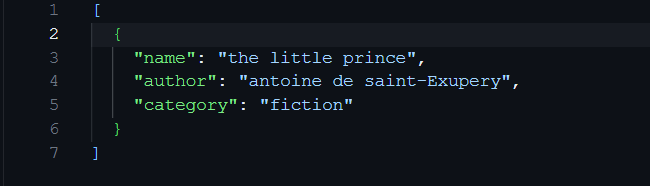
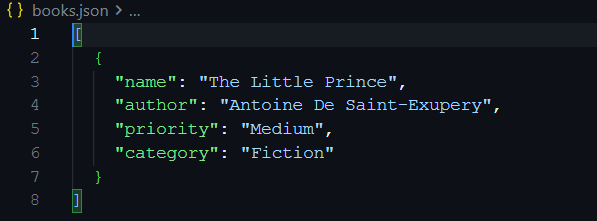
Add Priority feature

diff --git a/main.py b/main.py
@@ -20,6 +20,7 @@ elif adminMode.lower() == "n":
 
     print(f"Welcome {username}!")
 
+    PRIORITY = ["low", "medium", "high"]
     books = []
     bookshelf = Bookshelf(books)
     savedBooks = bookshelf.loadBooks()
@@ -31,6 +32,7 @@ elif adminMode.lower() == "n":
 
         bookName = input("Name: ")
         bookAuthor = input("Author: ")
+        bookPriority = input("Priority (Low / Medium / High): ")
         bookCategory = input("Category: ")
 
         print("\n==========================================\n")
@@ -41,11 +43,19 @@ elif adminMode.lower() == "n":
             print("Error! Please enter the author's name.\n")
         elif bookCategory.strip() == "":
             print("Error! Book Category can't be empty.\n")
+        elif not bookPriority in PRIORITY:
+            print("Error! An invalid priority.")
         else:
 
+            bookName = bookName.title()
+            bookAuthor = bookAuthor.title()
+            bookPriority = bookPriority.title()
+            bookCategory = bookCategory.title()
+            
             book = {
                 "name": bookName,
                 "author": bookAuthor,
+                "priority": bookPriority,
                 "category": bookCategory
             }
 

diff --git a/books.py b/books.py
@@ -8,7 +8,7 @@ class Bookshelf():
         print("\n================ Your books ================\n")
 
         for book in self.books:
-            print(f"- Name: {book["name"].title()}\n- Author: {book["author"].title()}\n- Category: {book["category"]}")
+            print(f"- Name: {book["name"].title()}\n- Author: {book["author"].title()}\n- Priority: {book["priority"].title()}\n- Category: {book["category"]}")
             print("\n---\n")
 
     def saveBooks(self):

diff --git a/README.md b/README.md
@@ -48,7 +48,7 @@ A separate admin entry path asks for a password. The password is read from the `
 ## Features
 
 - Ask for the user's name and display a welcome message.
-- Add books by entering a name, author, and category.
+- Add books by entering a name, author, priority and category.
 - Validate book details and reject empty fields.
 - Display the books currently in the collection.
 - Save book records locally in `books.json`.
@@ -69,9 +69,9 @@ Personal-Book-Manager/
 │   └── books-library.png
 ├── main.py
 ├── books.py
-├── books.json          # Created by the application when books are saved
-├── .env                # Local configuration; do not commit
-├── .env.example        # Optional template for environment configuration
+├── books.json
+├── .env
+├── .env.example
 ├── requirements.txt
 ├── .gitignore
 └── README.md
@@ -170,7 +170,7 @@ When you choose `n`, the application:
 
 1. Asks for your name and displays a welcome message.
 2. Loads any existing records from `books.json`.
-3. Prompts you to enter a book's name, author, and category.
+3. Prompts you to enter a book's name, author, priority and category.
 4. Rejects a book if any of those fields is empty.
 5. Asks whether you want to add another book.
 6. Displays the collection and saves it to `books.json`.
@@ -194,6 +194,7 @@ Welcome Mahdi!
 
 Name: The Little Prince
 Author: Antoine de Saint-Exupery
+Priority (Low / Medium / High): medium 
 Category: Fiction
 
 ==========================================
@@ -206,6 +207,7 @@ Do you want to add a new book? (y/n): n
 
 - Name: The Little Prince
 - Author: Antoine De Saint-Exupery
+- Priority: Medium
 - Category: Fiction
 
 ---
@@ -237,6 +239,7 @@ Book records are stored in `books.json` in the project directory. The file conta
 {
   "name": "The Little Prince",
   "author": "Antoine de Saint-Exupery",
+  "priority": "Medium",
   "category": "Fiction"
 }
 ```
